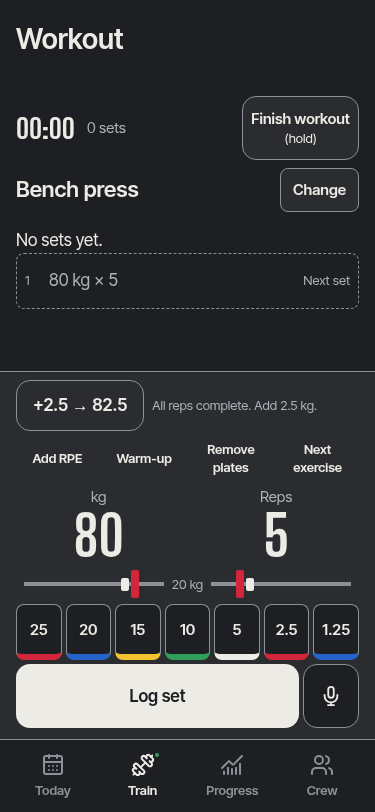
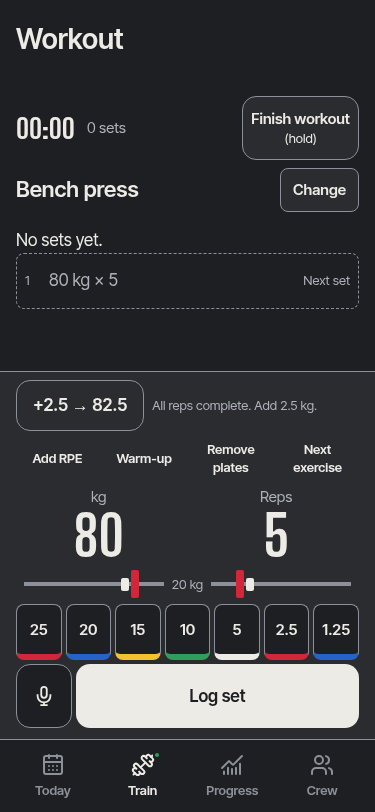
Y7: keep the dock usable offline and align mic focus order

Changed region(s): [[0.7627, 0.8005, 0.968, 0.9236], [0.0293, 0.8005, 0.2347, 0.9236], [0.352, 0.8313, 0.6453, 0.8929]]

diff --git a/src/features/session/voice/voice.css b/src/features/session/voice/voice.css
@@ -1,9 +1,9 @@
 /* Share the existing confirmation row so every dial stays in thumb reach. */
-.session-controls:has(> .session-voice) { grid-template-columns: minmax(0, 1fr) 56px; grid-auto-flow: row dense; }
+.session-controls:has(> .session-voice) { grid-template-columns: 56px minmax(0, 1fr); grid-auto-flow: row dense; }
 .session-controls:has(> .session-voice) > :not(.session-voice):not(.session-log) { grid-column: 1 / -1; }
-.session-controls:has(> .session-voice) > .session-log { grid-column: 1; }
+.session-controls:has(> .session-voice) > .session-log { grid-column: 2; }
 .session-voice { display: contents; }
-.session-voice-mic { grid-column: 2; display: flex; align-items: center; justify-content: center; min-width: 56px; min-height: 64px; padding: 8px; border: 1px solid var(--line); border-radius: 14px; color: var(--text); background: var(--bg); font: inherit; touch-action: none; user-select: none; -webkit-user-select: none; -webkit-touch-callout: none; }
+.session-voice-mic { grid-column: 1; display: flex; align-items: center; justify-content: center; min-width: 56px; min-height: 64px; padding: 8px; border: 1px solid var(--line); border-radius: 14px; color: var(--text); background: var(--bg); font: inherit; touch-action: none; user-select: none; -webkit-user-select: none; -webkit-touch-callout: none; }
 .session-voice-mic[aria-pressed='true'] { color: var(--rubber); background: var(--chalk); }
 .session-voice-mic:focus-visible { outline: 2px solid var(--text); outline-offset: 2px; }
 .session-voice-mic:disabled { opacity: .6; }

diff --git a/src/features/session/voice/VoiceChunk.test.tsx b/src/features/session/voice/VoiceChunk.test.tsx
@@ -1,0 +1,23 @@
+// @vitest-environment jsdom
+import { act, fireEvent, render, screen } from '@testing-library/react';
+import { afterEach, expect, it, vi } from 'vitest';
+import { VoiceInput } from './VoiceInput.tsx';
+import { copy } from '../../../ui/copy.ts';
+
+vi.mock('./VoiceMic.tsx', () => { throw new Error('Optional chunk is offline'); });
+afterEach(() => vi.unstubAllGlobals());
+
+it('keeps the confirmation form usable when the lazy mic chunk cannot load', async () => {
+  vi.stubGlobal('SpeechRecognition', class {});
+  const confirm = vi.fn((event) => event.preventDefault());
+  await act(async () => {
+    render(<form onSubmit={confirm}>
+      <VoiceInput kg={80} reps={5} same={{ kg: 80, reps: 5 }} minKg={0} maxKg={500}
+        disabled={false} reduced onDraft={vi.fn()} />
+      <button type="submit">{copy.x4Log}</button>
+    </form>);
+  });
+  expect(screen.queryByRole('button', { name: copy.y7Hold })).toBeNull();
+  fireEvent.click(screen.getByRole('button', { name: copy.x4Log }));
+  expect(confirm).toHaveBeenCalledOnce();
+});

diff --git a/src/features/session/voice/VoiceInput.tsx b/src/features/session/voice/VoiceInput.tsx
@@ -1,8 +1,10 @@
-import { lazy, Suspense } from 'react';
+import { lazy, Suspense, type ComponentType } from 'react';
 import { recognitionConstructor } from './support.ts';
 import type { VoiceMicProps } from './VoiceMic.tsx';
 
-const VoiceMic = lazy(() => import('./VoiceMic.tsx'));
+// An optional chunk can be unavailable on a first visit in airplane mode.
+// Keep the existing dock usable instead of bubbling to the route error screen.
+const VoiceMic = lazy<ComponentType<VoiceMicProps>>(() => import('./VoiceMic.tsx').catch(() => ({ default: () => null })));
 
 /** No empty control or lazy request on browsers without either speech API. */
 export function VoiceInput(props: VoiceMicProps) {
